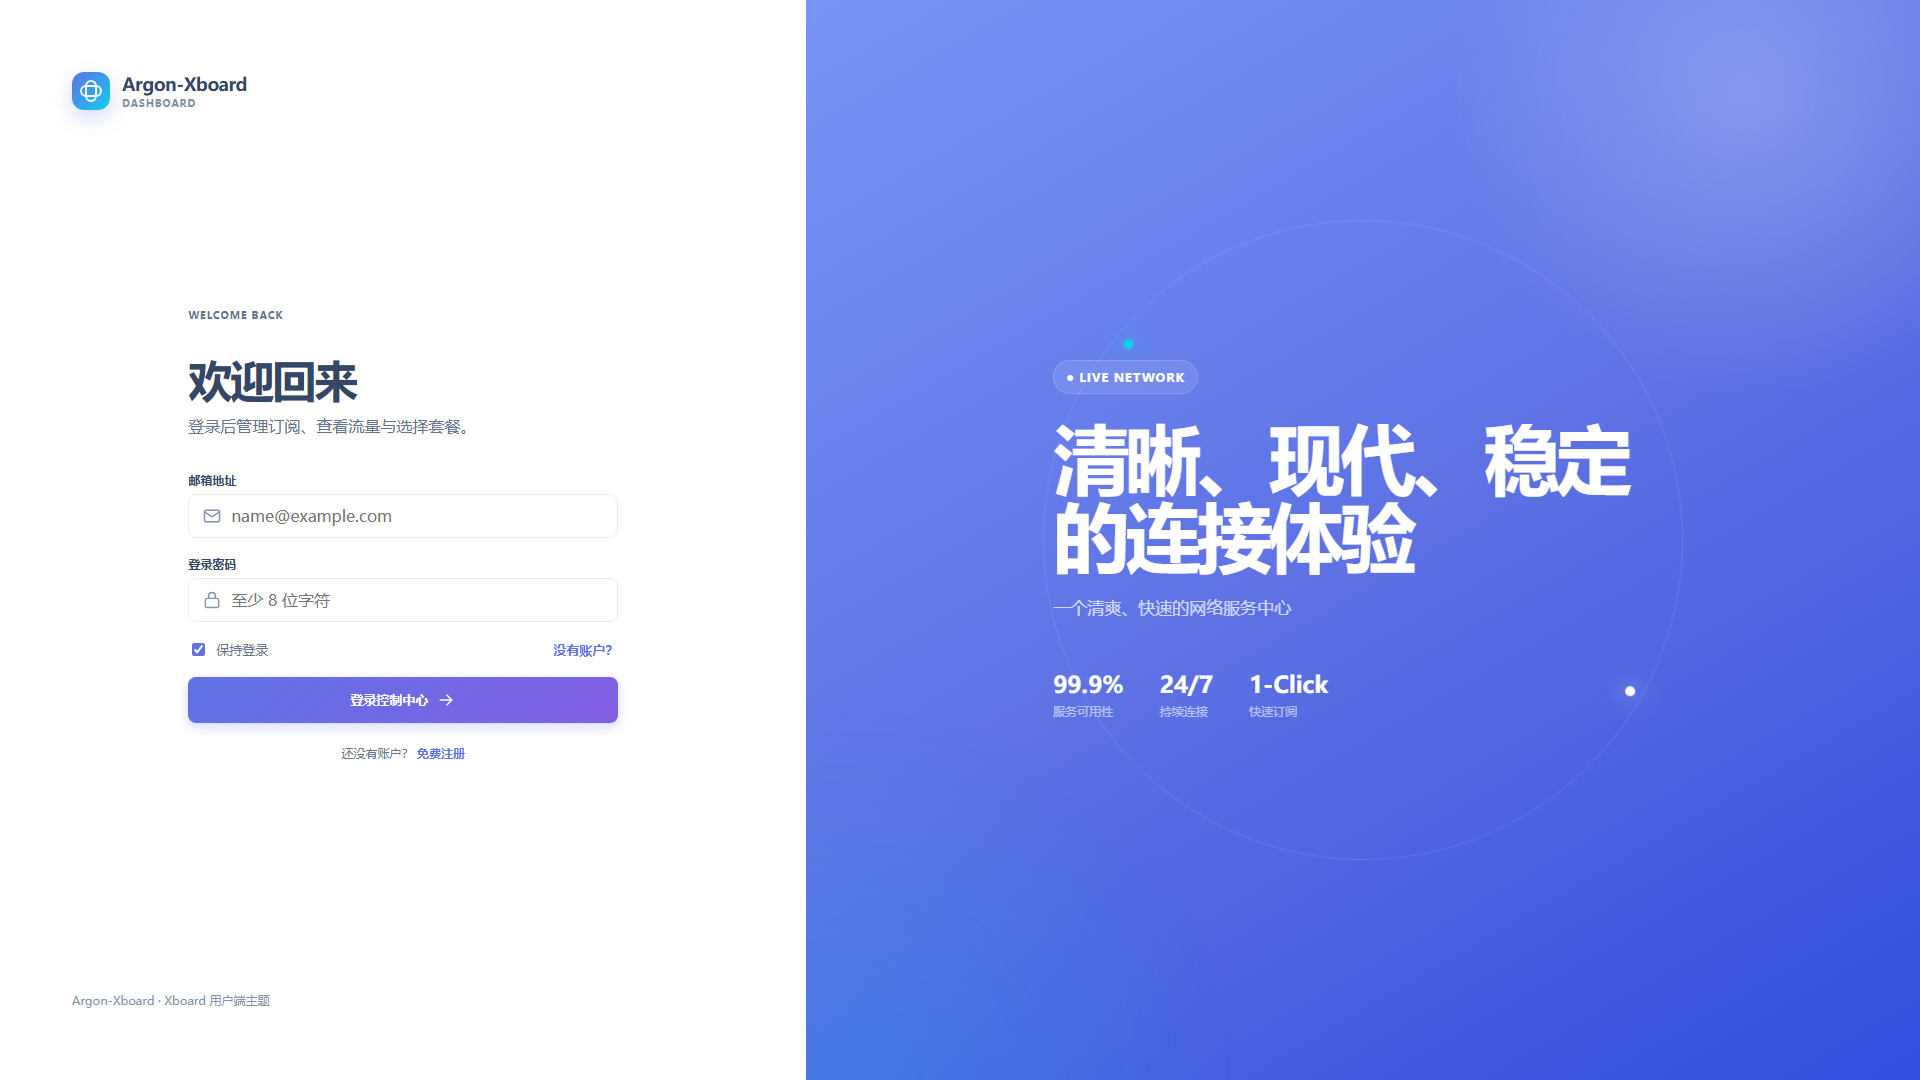
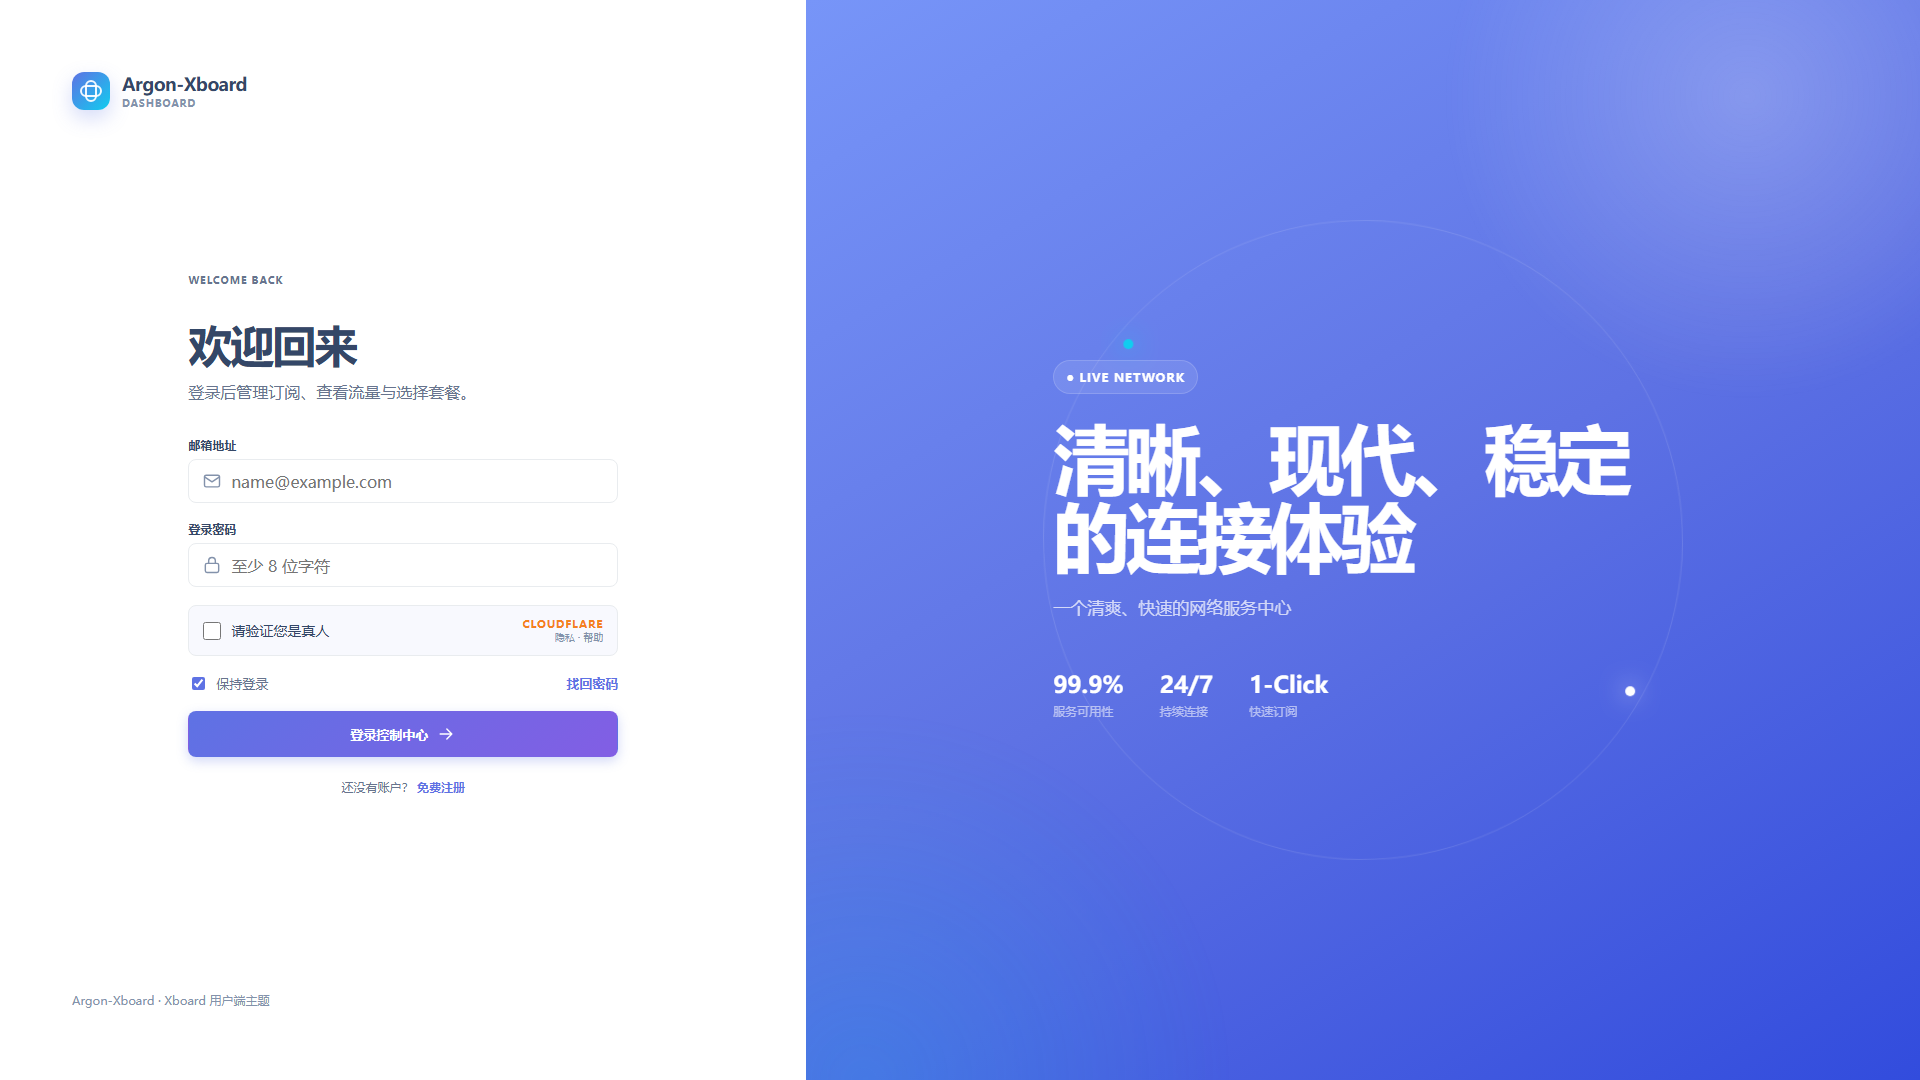
feat(auth): invite code field, login human-verify, forgot password (v1.1.6)
- register: always show invite code field (optional unless is_invite_force),
  prefilled from ?code= invite link
- login: render human-verification (captcha) box and include captcha payload
  on login submit; add mock Turnstile widget in preview mode
- add forgot password page (#/forgot) with email code + new password, wired
  to /passport/auth/forget; login meta now links to it
- captchaPayload accepts per-action name and skips when no widget is present
- bump version to 1.1.6, refresh login/register screenshots, add forgot.png

Changed region(s): [[0.0938, 0.2444, 0.3438, 0.7333]]

diff --git a/assets/theme.js b/assets/theme.js
@@ -153,7 +153,9 @@
     ];
     const tickets = [{ id: 12, level: 1, reply_status: 1, status: 0, subject: '客户端连接问题', created_at: now - 7200, updated_at: now - 1800 }];
     const queryId = new URLSearchParams(path.split('?')[1] || '').get('id');
-    const data = path.includes('/guest/comm/config') ? { app_description: '一个清爽、快速的网络服务中心', is_invite_force: 0, is_email_verify: 0, is_captcha: 0 }
+    const data = path.includes('/guest/comm/config') ? { app_description: '一个清爽、快速的网络服务中心', is_invite_force: 0, is_email_verify: 0, is_captcha: 1, captcha_type: 'turnstile' }
+      : path.includes('/auth/forget') ? true
+      : path.includes('/comm/sendEmailVerify') ? true
       : path.includes('/auth/login') || path.includes('/auth/register') ? { auth_data: 'Bearer preview-token', token: 'preview' }
       : path.includes('/user/info') ? { email: 'demo@argon-xboard.dev', balance: 2680, commission_balance: 0, expired_at: now + 86400 * 126, created_at: now - 86400 * 93, plan_id: 2 }
       : path.includes('/getSubscribe') ? { plan_id: 2, u: 23 * 1024 ** 3, d: 172 * 1024 ** 3, transfer_enable: 500 * 1024 ** 3, expired_at: now + 86400 * 126, subscribe_url: 'https://example.com/s/nebula-preview', plan: plans[1], device_limit: 8, speed_limit: null, reset_day: 12 }
@@ -279,15 +281,22 @@
     </div>`;
   }
 
+  function authVisual() {
+    return `<aside class="auth-visual" aria-hidden="true">
+      <div class="orbit"></div>
+      <div class="visual-copy"><span class="visual-kicker">● LIVE NETWORK</span><h2>${e(config.tagline)}</h2><p>${e(state.guest.app_description || config.description || '一个专注体验的网络服务控制中心。')}</p><div class="visual-stats"><div><b>99.9%</b><span>服务可用性</span></div><div><b>24/7</b><span>持续连接</span></div><div><b>1-Click</b><span>快速订阅</span></div></div></div>
+    </aside>`;
+  }
+
   function authPage(mode) {
     const register = mode === 'register';
     const guest = state.guest || {};
     const emailVerify = register && Number(guest.is_email_verify) === 1;
-    const invite = register && Number(guest.is_invite_force) === 1;
+    const inviteForce = register && Number(guest.is_invite_force) === 1;
+    const urlCode = register ? (new URLSearchParams((location.hash.split('?')[1] || '')).get('code') || '') : '';
     const authFields = register ? `
-      ${invite ? `<div class="field"><label for="invite_code">邀请码</label><input class="input" id="invite_code" name="invite_code" autocomplete="off" required placeholder="请输入邀请码"></div>` : ''}
-      ${emailVerify ? `<div class="field"><label for="email_code">邮箱验证码</label><div class="verify-row"><input class="input" id="email_code" name="email_code" inputmode="numeric" maxlength="6" required placeholder="6 位验证码"><button class="btn btn-secondary" type="button" data-action="send-code">发送验证码</button></div></div>` : ''}
-      <div id="captcha-box"></div>` : '';
+      <div class="field"><label for="invite_code">邀请码${inviteForce ? '' : '（选填）'}</label><input class="input" id="invite_code" name="invite_code" autocomplete="off" ${inviteForce ? 'required' : ''} value="${e(urlCode)}" placeholder="${inviteForce ? '请输入邀请码' : '邀请码(选填)'}"></div>
+      ${emailVerify ? `<div class="field"><label for="email_code">邮箱验证码</label><div class="verify-row"><input class="input" id="email_code" name="email_code" inputmode="numeric" maxlength="6" required placeholder="6 位验证码"><button class="btn btn-secondary" type="button" data-action="send-code">发送验证码</button></div></div>` : ''}` : '';
     app.innerHTML = `<div class="auth-shell">
       <section class="auth-panel">
         ${brand()}
@@ -299,19 +308,40 @@
             <div class="field"><label for="email">邮箱地址</label><div class="input-wrap">${icon('mail')}<input class="input" id="email" name="email" type="email" autocomplete="email" required placeholder="name@example.com"></div></div>
             <div class="field"><label for="password">登录密码</label><div class="input-wrap">${icon('lock')}<input class="input" id="password" name="password" type="password" minlength="8" autocomplete="${register ? 'new-password' : 'current-password'}" required placeholder="至少 8 位字符"></div></div>
             ${authFields}
-            ${!register ? `<div class="form-meta"><label class="check"><input type="checkbox" checked> 保持登录</label><a class="text-link" href="#/register">没有账户？</a></div>` : `<p class="field-hint">创建账户即代表你同意站点服务条款与隐私政策。</p>`}
+            <div id="captcha-box"></div>
+            ${!register ? `<div class="form-meta"><label class="check"><input type="checkbox" checked> 保持登录</label><a class="text-link" href="#/forgot">找回密码</a></div>` : `<p class="field-hint">创建账户即代表你同意站点服务条款与隐私政策。</p>`}
             <button class="btn btn-primary btn-block" type="submit">${register ? '注册并进入' : '登录控制中心'} ${icon('arrow')}</button>
           </form>
           <p class="field-hint" style="margin-top:20px;text-align:center">${register ? '已经有账户？ <a class="text-link" href="#/login">直接登录</a>' : `还没有账户？ <a class="text-link" href="#/register">免费注册</a>`}</p>
         </div>
         <div class="auth-footer">${e(config.footerText)}</div>
       </section>
-      <aside class="auth-visual" aria-hidden="true">
-        <div class="orbit"></div>
-        <div class="visual-copy"><span class="visual-kicker">● LIVE NETWORK</span><h2>${e(config.tagline)}</h2><p>${e(state.guest.app_description || config.description || '一个专注体验的网络服务控制中心。')}</p><div class="visual-stats"><div><b>99.9%</b><span>服务可用性</span></div><div><b>24/7</b><span>持续连接</span></div><div><b>1-Click</b><span>快速订阅</span></div></div></div>
-      </aside>
+      ${authVisual()}
     </div>`;
-    if (register) mountCaptcha();
+    mountCaptcha();
+  }
+
+  function forgotPage() {
+    app.innerHTML = `<div class="auth-shell">
+      <section class="auth-panel">
+        ${brand()}
+        <div class="auth-main">
+          <p class="eyebrow">Reset password</p>
+          <h1>找回密码</h1>
+          <p>通过注册邮箱接收验证码，验证后即可设置新的登录密码。</p>
+          <form class="form" id="forgot-form">
+            <div class="field"><label for="email">邮箱地址</label><div class="input-wrap">${icon('mail')}<input class="input" id="email" name="email" type="email" autocomplete="email" required placeholder="name@example.com"></div></div>
+            <div class="field"><label for="email_code">邮箱验证码</label><div class="verify-row"><input class="input" id="email_code" name="email_code" inputmode="numeric" maxlength="6" required placeholder="6 位验证码"><button class="btn btn-secondary" type="button" data-action="send-code">发送验证码</button></div></div>
+            <div class="field"><label for="password">新密码</label><div class="input-wrap">${icon('lock')}<input class="input" id="password" name="password" type="password" minlength="8" autocomplete="new-password" required placeholder="至少 8 位字符"></div></div>
+            <div class="field"><label for="password_confirmation">确认密码</label><div class="input-wrap">${icon('lock')}<input class="input" id="password_confirmation" name="password_confirmation" type="password" minlength="8" autocomplete="new-password" required placeholder="再次输入新密码"></div></div>
+            <button class="btn btn-primary btn-block" type="submit">重置密码 ${icon('arrow')}</button>
+          </form>
+          <p class="field-hint" style="margin-top:20px;text-align:center">想起密码了？ <a class="text-link" href="#/login">返回登录</a></p>
+        </div>
+        <div class="auth-footer">${e(config.footerText)}</div>
+      </section>
+      ${authVisual()}
+    </div>`;
   }
 
   async function mountCaptcha() {
@@ -319,6 +349,12 @@
     if (!Number(guest.is_captcha)) return;
     const box = document.getElementById('captcha-box');
     if (!box) return;
+    if (isPreview) {
+      box.innerHTML = `<label class="mock-turnstile"><span class="mock-turnstile-main"><input type="checkbox" id="mock-captcha-cb"> 请验证您是真人</span><span class="mock-turnstile-logo"><b>CLOUDFLARE</b><small>隐私 · 帮助</small></span></label>`;
+      const cb = box.querySelector('#mock-captcha-cb');
+      if (cb) cb.addEventListener('change', () => { state.captchaToken = cb.checked ? 'preview-captcha' : ''; });
+      return;
+    }
     box.innerHTML = '<p class="field-hint">正在载入安全验证…</p>';
     try {
       if (guest.captcha_type === 'turnstile') {
@@ -345,11 +381,12 @@
     });
   }
 
-  async function captchaPayload() {
+  async function captchaPayload(action = 'register') {
     const guest = state.guest || {};
     if (!Number(guest.is_captcha)) return {};
+    if (!document.getElementById('captcha-box')) return {};
     if (guest.captcha_type === 'recaptcha-v3') {
-      const token = await window.grecaptcha.execute(guest.recaptcha_v3_site_key, { action: 'register' });
+      const token = await window.grecaptcha.execute(guest.recaptcha_v3_site_key, { action });
       return { recaptcha_v3_token: token };
     }
     if (!state.captchaToken) throw new Error('请先完成人机验证');
@@ -628,7 +665,7 @@
       state.user = user;
       const content = `${pageHead('Account', '个人中心', '你的账户资料与常用操作。')}
         <div class="grid grid-2"><section class="card card-pad"><div class="profile-card"><div class="profile-avatar">${e(initials(user.email))}</div><div><h2>${e(user.email)}</h2><p>加入于 ${date(user.created_at)}</p></div></div><div class="info-list" style="margin-top:22px"><div class="info-item"><span>账户余额</span><b>${money(user.balance)}</b></div><div class="info-item"><span>套餐编号</span><b>${e(user.plan_id || '暂无')}</b></div><div class="info-item"><span>到期时间</span><b>${date(user.expired_at)}</b></div><div class="info-item"><span>账户状态</span><b><span class="status ${user.banned ? 'danger' : 'success'}">${user.banned ? '已停用' : '正常'}</span></b></div></div></section>
-        <section class="card card-pad"><div class="card-title"><div><h2>偏好设置</h2><p>这些设置保存在当前浏览器</p></div></div><div class="info-list"><div class="info-item"><span>界面主题</span><button class="btn btn-secondary btn-sm" data-action="theme">切换深浅色</button></div><div class="info-item"><span>客服支持</span>${config.supportUrl ? `<a class="text-link" href="${e(config.supportUrl)}" target="_blank" rel="noopener">打开客服</a>` : '<b>未配置</b>'}</div><div class="info-item"><span>前端版本</span><b>Argon-Xboard 1.1.5</b></div><div class="info-item"><span>登录状态</span><button class="btn btn-danger btn-sm" data-action="logout">退出登录</button></div></div></section></div>
+        <section class="card card-pad"><div class="card-title"><div><h2>偏好设置</h2><p>这些设置保存在当前浏览器</p></div></div><div class="info-list"><div class="info-item"><span>界面主题</span><button class="btn btn-secondary btn-sm" data-action="theme">切换深浅色</button></div><div class="info-item"><span>客服支持</span>${config.supportUrl ? `<a class="text-link" href="${e(config.supportUrl)}" target="_blank" rel="noopener">打开客服</a>` : '<b>未配置</b>'}</div><div class="info-item"><span>前端版本</span><b>Argon-Xboard 1.1.6</b></div><div class="info-item"><span>登录状态</span><button class="btn btn-danger btn-sm" data-action="logout">退出登录</button></div></div></section></div>
         <section class="card card-pad" style="margin-top:24px"><div class="card-title"><div><h2>安全设置</h2><p>定期更换密码可以保护账户安全</p></div>${icon('lock')}</div><form class="form" id="password-change-form" style="max-width:520px"><div class="field"><label for="old_password">当前密码</label><input class="input" id="old_password" name="old_password" type="password" required placeholder="请输入当前密码"></div><div class="form-row"><div class="field"><label for="new_password">新密码</label><input class="input" id="new_password" name="new_password" type="password" minlength="8" required placeholder="至少 8 位字符"></div><div class="field"><label for="new_password_confirmation">确认新密码</label><input class="input" id="new_password_confirmation" name="new_password_confirmation" type="password" required placeholder="再次输入新密码"></div></div><button class="btn btn-primary" type="submit">修改密码</button></form></section>`;
       app.innerHTML = shell(content, '个人中心');
     } catch (error) { renderError(error); }
@@ -734,12 +771,23 @@
     const button = form.querySelector('[type="submit"]'); button.disabled = true; button.textContent = mode === 'register' ? '正在创建账户…' : '正在登录…';
     try {
       const data = Object.fromEntries(new FormData(form).entries());
-      if (mode === 'register') Object.assign(data, await captchaPayload());
+      Object.assign(data, await captchaPayload(mode));
       const result = await api(`/passport/auth/${mode}`, { method: 'POST', body: data });
       saveAuth(result.auth_data);
       toast(mode === 'register' ? '账户创建成功' : '欢迎回来');
       go('dashboard');
     } catch (error) { toast(error.message, 'error'); button.disabled = false; button.textContent = mode === 'register' ? '注册并进入' : '登录控制中心'; }
+  }
+
+  async function handleForgot(form) {
+    const button = form.querySelector('[type="submit"]'); button.disabled = true; button.textContent = '正在重置…';
+    try {
+      const data = Object.fromEntries(new FormData(form).entries());
+      if (data.password !== data.password_confirmation) throw new Error('两次输入的密码不一致');
+      await api('/passport/auth/forget', { method: 'POST', body: { email: data.email, email_code: data.email_code, password: data.password } });
+      toast('密码已重置，请使用新密码登录', 'success');
+      go('login');
+    } catch (error) { toast(error.message, 'error'); button.disabled = false; button.textContent = '重置密码'; }
   }
 
   async function sendEmailCode(button) {
@@ -760,10 +808,11 @@
     const dialog = document.getElementById('global-dialog');
     if (dialog?.open) dialog.close();
     let route = routeName();
-    if (!state.auth && !['login', 'register'].includes(route)) route = 'login';
-    if (state.auth && ['login', 'register'].includes(route)) route = 'dashboard';
+    if (!state.auth && !['login', 'register', 'forgot'].includes(route)) route = 'login';
+    if (state.auth && ['login', 'register', 'forgot'].includes(route)) route = 'dashboard';
     if (route !== routeName()) { go(route); return; }
     if (route === 'login' || route === 'register') return authPage(route);
+    if (route === 'forgot') return forgotPage();
     if (route === 'docs') return renderDocs(id);
     if (route === 'plans') return renderPlans(id);
     if (route === 'orders') return renderOrders(id);
@@ -811,9 +860,10 @@
 
   document.addEventListener('submit', event => {
     const form = event.target;
-    if (!['auth-form', 'purchase-form', 'payment-form', 'ticket-create-form', 'ticket-reply-form', 'password-change-form'].includes(form.id)) return;
+    if (!['auth-form', 'forgot-form', 'purchase-form', 'payment-form', 'ticket-create-form', 'ticket-reply-form', 'password-change-form'].includes(form.id)) return;
     event.preventDefault();
     if (form.id === 'auth-form') handleAuth(form);
+    if (form.id === 'forgot-form') handleForgot(form);
     if (form.id === 'purchase-form') createOrder(form);
     if (form.id === 'payment-form') checkout(form);
     if (form.id === 'ticket-create-form') submitTicket(form);

diff --git a/assets/theme.css b/assets/theme.css
@@ -137,6 +137,12 @@ img { max-width: 100%; }
 .check input { accent-color: var(--primary); }
 .text-link { color: var(--primary); font-weight: 600; }
 .text-link:hover { text-decoration: underline; }
+.mock-turnstile { display: flex; align-items: center; justify-content: space-between; gap: 12px; padding: 12px 14px; border: 1px solid var(--line); border-radius: var(--radius-sm); background: var(--surface-soft); cursor: pointer; user-select: none; }
+.mock-turnstile-main { display: inline-flex; align-items: center; gap: 10px; color: var(--ink); font-size: 14px; }
+.mock-turnstile-main input { width: 18px; height: 18px; margin: 0; accent-color: var(--primary); cursor: pointer; }
+.mock-turnstile-logo { display: inline-flex; flex-direction: column; align-items: flex-end; gap: 2px; line-height: 1.1; }
+.mock-turnstile-logo b { color: #f48120; font-size: 11px; letter-spacing: .06em; }
+.mock-turnstile-logo small { color: var(--muted); font-size: 10px; }
 
 .btn {
   min-height: 42px; display: inline-flex; align-items: center; justify-content: center; gap: 8px;

diff --git a/preview.html b/preview.html
@@ -82,6 +82,7 @@
         <select id="dbg_route">
           <option value="login">登录 login</option>
           <option value="register">注册 register</option>
+          <option value="forgot">找回密码 forgot</option>
           <option value="dashboard">仪表盘 dashboard</option>
           <option value="plans">购买订阅 plans</option>
           <option value="orders">我的订单 orders</option>

diff --git a/dashboard.blade.php b/dashboard.blade.php
@@ -9,7 +9,7 @@
   @if (file_exists(public_path("/theme/{$theme}/favicon.ico")))
     <link rel="icon" href="/theme/{{ $theme }}/favicon.ico">
   @endif
-  <link rel="stylesheet" href="/theme/{{ $theme }}/assets/theme.css?v=1.1.5">
+  <link rel="stylesheet" href="/theme/{{ $theme }}/assets/theme.css?v=1.1.6">
 </head>
 <body>
   <div id="app" aria-live="polite">
@@ -36,7 +36,7 @@
       'footerText' => $theme_config['footer_text'] ?? 'Powered by Argon-Xboard · Xboard'
     ], JSON_UNESCAPED_UNICODE | JSON_UNESCAPED_SLASHES | JSON_HEX_TAG | JSON_HEX_AMP | JSON_HEX_APOS | JSON_HEX_QUOT) !!};
   </script>
-  <script defer src="/theme/{{ $theme }}/assets/theme.js?v=1.1.5"></script>
+  <script defer src="/theme/{{ $theme }}/assets/theme.js?v=1.1.6"></script>
   {!! $theme_config['custom_html'] ?? '' !!}
 </body>
 </html>
